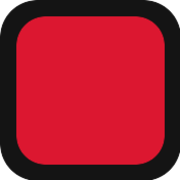
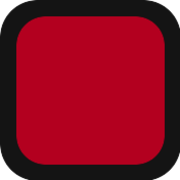
Blutrot statt Pink: Rot-Palette deutlich dunkler/gesättigter

diff --git a/styles.css b/styles.css
@@ -3,9 +3,9 @@
   --ink-soft: #5e5e5e;
   --paper: #f7f5f1;
   --paper-dark: #ece8e1;
-  --red: #dc1730;
-  --red-deep: #9e0e21;
-  --red-soft: #ff5468;
+  --red: #b3001f;
+  --red-deep: #7a0016;
+  --red-soft: #ff2d3f;
   --white: #ffffff;
   --line: rgba(20, 20, 20, .14);
   --max: 1180px;
@@ -35,12 +35,12 @@ a { color: inherit; }
 .menu-toggle { display: none; }
 
 .hero { position: relative; overflow: hidden; min-height: 720px; padding: 168px 0 94px; color: var(--white); background: var(--ink); }
-.hero::before { content: ''; position: absolute; width: 780px; height: 780px; right: -280px; top: -220px; border: 1px solid rgba(220,23,48,.28); border-radius: 50%; box-shadow: 0 0 0 80px rgba(220,23,48,.05), 0 0 0 160px rgba(220,23,48,.03); }
+.hero::before { content: ''; position: absolute; width: 780px; height: 780px; right: -280px; top: -220px; border: 1px solid rgba(179,0,31,.28); border-radius: 50%; box-shadow: 0 0 0 80px rgba(179,0,31,.05), 0 0 0 160px rgba(179,0,31,.03); }
 .hero::after { content: ''; position: absolute; inset: auto 0 0; height: 4px; background: var(--red); }
 .hero-grid { position: relative; z-index: 1; display: grid; grid-template-columns: 1fr .9fr; gap: 68px; align-items: center; }
 .hero-copy { max-width: 660px; }
 .eyebrow { display: flex; align-items: center; gap: 9px; margin: 0 0 22px; color: var(--red-soft); font-family: ui-monospace, "SF Mono", "Cascadia Mono", monospace; font-size: .7rem; font-weight: 700; letter-spacing: .1em; text-transform: uppercase; }
-.eyebrow-dot { width: 7px; height: 7px; border-radius: 50%; background: var(--red); box-shadow: 0 0 0 5px rgba(220,23,48,.2); }
+.eyebrow-dot { width: 7px; height: 7px; border-radius: 50%; background: var(--red); box-shadow: 0 0 0 5px rgba(179,0,31,.2); }
 .eyebrow-dark { color: var(--red); }
 h1, h2, h3, p { margin-top: 0; }
 h1, h2, h3 { line-height: 1.02; letter-spacing: -.05em; }
@@ -63,7 +63,7 @@ h1 em, h2 em { color: var(--red); font-style: normal; }
 .hero-notes i { margin-right: 6px; color: var(--red); font-style: normal; font-size: .6rem; }
 
 .hero-visual { position: relative; min-height: 440px; }
-.orbit { position: absolute; border: 1px solid rgba(220,23,48,.4); border-radius: 50%; transform: rotate(-24deg); }
+.orbit { position: absolute; border: 1px solid rgba(179,0,31,.4); border-radius: 50%; transform: rotate(-24deg); }
 .orbit-one { width: 480px; height: 210px; left: 10px; top: 113px; }
 .orbit-two { width: 450px; height: 160px; left: 31px; top: 140px; border-color: rgba(255,255,255,.14); transform: rotate(38deg); }
 .visual-card { position: absolute; border: 1px solid rgba(255,255,255,.2); background: rgba(255,255,255,.07); box-shadow: 0 22px 50px rgba(0,0,0,.3); backdrop-filter: blur(10px); }
@@ -125,7 +125,7 @@ h2 { margin-bottom: 0; font-size: clamp(2.7rem, 5vw, 4.7rem); font-weight: 800; 
 .facts-list li b { color: var(--red); }
 
 .insta-section { position: relative; overflow: hidden; color: var(--white); background: var(--ink); }
-.insta-section::before { content: ''; position: absolute; width: 640px; height: 640px; left: -240px; bottom: -260px; border: 1px solid rgba(220,23,48,.3); border-radius: 50%; }
+.insta-section::before { content: ''; position: absolute; width: 640px; height: 640px; left: -240px; bottom: -260px; border: 1px solid rgba(179,0,31,.3); border-radius: 50%; }
 .insta-grid { position: relative; z-index: 1; display: grid; grid-template-columns: 1fr .7fr; gap: 90px; align-items: center; }
 .insta-copy h2 { margin-bottom: 26px; }
 .insta-copy p:not(.eyebrow) { max-width: 460px; color: rgba(255,255,255,.68); font-size: .95rem; margin-bottom: 32px; }
@@ -133,11 +133,11 @@ h2 { margin-bottom: 0; font-size: clamp(2.7rem, 5vw, 4.7rem); font-weight: 800; 
 .insta-handle strong { color: var(--white); font-family: inherit; }
 .handle-avatar { width: 22px; height: 22px; border-radius: 50%; object-fit: cover; border: 1px solid rgba(255,255,255,.4); }
 .insta-tiles { display: grid; grid-template-columns: repeat(2, 1fr); gap: 14px; }
-.insta-tile { position: relative; aspect-ratio: 1; display: grid; place-items: center; overflow: hidden; border: 1px solid rgba(255,255,255,.14); background: linear-gradient(155deg, rgba(220,23,48,.22), rgba(255,255,255,.04)); color: rgba(255,255,255,.5); }
+.insta-tile { position: relative; aspect-ratio: 1; display: grid; place-items: center; overflow: hidden; border: 1px solid rgba(255,255,255,.14); background: linear-gradient(155deg, rgba(179,0,31,.22), rgba(255,255,255,.04)); color: rgba(255,255,255,.5); }
 .insta-tile svg { width: 30px; height: 30px; }
 .insta-tile img { width: 100%; height: 100%; object-fit: cover; }
 .insta-tile-profile { background: #141414; }
-.insta-tile:nth-child(2), .insta-tile:nth-child(3) { background: linear-gradient(155deg, rgba(255,255,255,.06), rgba(220,23,48,.12)); }
+.insta-tile:nth-child(2), .insta-tile:nth-child(3) { background: linear-gradient(155deg, rgba(255,255,255,.06), rgba(179,0,31,.12)); }
 
 .contact-section { padding: 100px 0; color: var(--white); background: var(--red); }
 .contact-grid { display: grid; grid-template-columns: .95fr 1fr; gap: 90px; align-items: start; }

diff --git a/index.html b/index.html
@@ -51,7 +51,7 @@
         <a class="brand" href="/" aria-label="Haus des Kiosks Startseite">
           <span class="brand-mark" aria-hidden="true">
             <svg viewBox="0 0 44 44" role="img">
-              <rect x="1.5" y="1.5" width="41" height="41" rx="9" fill="#dc1730"/>
+              <rect x="1.5" y="1.5" width="41" height="41" rx="9" fill="#b3001f"/>
               <path d="M15 11v22M15 22l14-11M15 22l14 11" fill="none" stroke="#fff" stroke-width="4.6" stroke-linecap="round" stroke-linejoin="round"/>
             </svg>
           </span>
@@ -261,7 +261,7 @@
       <div class="container footer-grid">
         <div class="brand footer-brand">
           <span class="brand-mark" aria-hidden="true">
-            <svg viewBox="0 0 44 44"><rect x="1.5" y="1.5" width="41" height="41" rx="9" fill="#dc1730"/><path d="M15 11v22M15 22l14-11M15 22l14 11" fill="none" stroke="#fff" stroke-width="4.6" stroke-linecap="round" stroke-linejoin="round"/></svg>
+            <svg viewBox="0 0 44 44"><rect x="1.5" y="1.5" width="41" height="41" rx="9" fill="#b3001f"/><path d="M15 11v22M15 22l14-11M15 22l14 11" fill="none" stroke="#fff" stroke-width="4.6" stroke-linecap="round" stroke-linejoin="round"/></svg>
           </span>
           <span>Haus des <b>Kiosks</b></span>
         </div>

diff --git a/datenschutz.html b/datenschutz.html
@@ -8,7 +8,7 @@
     <link rel="apple-touch-icon" href="apple-touch-icon.png">
   </head>
   <body>
-    <header class="site-header"><div class="container nav-wrap"><a class="brand" href="/"><span class="brand-mark" aria-hidden="true"><svg viewBox="0 0 44 44"><rect x="1.5" y="1.5" width="41" height="41" rx="9" fill="#dc1730"/><path d="M15 11v22M15 22l14-11M15 22l14 11" fill="none" stroke="#fff" stroke-width="4.6" stroke-linecap="round" stroke-linejoin="round"/></svg></span><span>Haus des <b>Kiosks</b></span></a></div></header>
+    <header class="site-header"><div class="container nav-wrap"><a class="brand" href="/"><span class="brand-mark" aria-hidden="true"><svg viewBox="0 0 44 44"><rect x="1.5" y="1.5" width="41" height="41" rx="9" fill="#b3001f"/><path d="M15 11v22M15 22l14-11M15 22l14 11" fill="none" stroke="#fff" stroke-width="4.6" stroke-linecap="round" stroke-linejoin="round"/></svg></span><span>Haus des <b>Kiosks</b></span></a></div></header>
     <main class="legal-page"><div class="container legal-card">
       <p class="eyebrow eyebrow-dark">Rechtliches</p>
       <h1>Datenschutz</h1>

diff --git a/impressum.html b/impressum.html
@@ -8,7 +8,7 @@
     <link rel="apple-touch-icon" href="apple-touch-icon.png">
   </head>
   <body>
-    <header class="site-header"><div class="container nav-wrap"><a class="brand" href="/"><span class="brand-mark" aria-hidden="true"><svg viewBox="0 0 44 44"><rect x="1.5" y="1.5" width="41" height="41" rx="9" fill="#dc1730"/><path d="M15 11v22M15 22l14-11M15 22l14 11" fill="none" stroke="#fff" stroke-width="4.6" stroke-linecap="round" stroke-linejoin="round"/></svg></span><span>Haus des <b>Kiosks</b></span></a></div></header>
+    <header class="site-header"><div class="container nav-wrap"><a class="brand" href="/"><span class="brand-mark" aria-hidden="true"><svg viewBox="0 0 44 44"><rect x="1.5" y="1.5" width="41" height="41" rx="9" fill="#b3001f"/><path d="M15 11v22M15 22l14-11M15 22l14 11" fill="none" stroke="#fff" stroke-width="4.6" stroke-linecap="round" stroke-linejoin="round"/></svg></span><span>Haus des <b>Kiosks</b></span></a></div></header>
     <main class="legal-page"><div class="container legal-card">
       <p class="eyebrow eyebrow-dark">Rechtliches</p>
       <h1>Impressum</h1>
